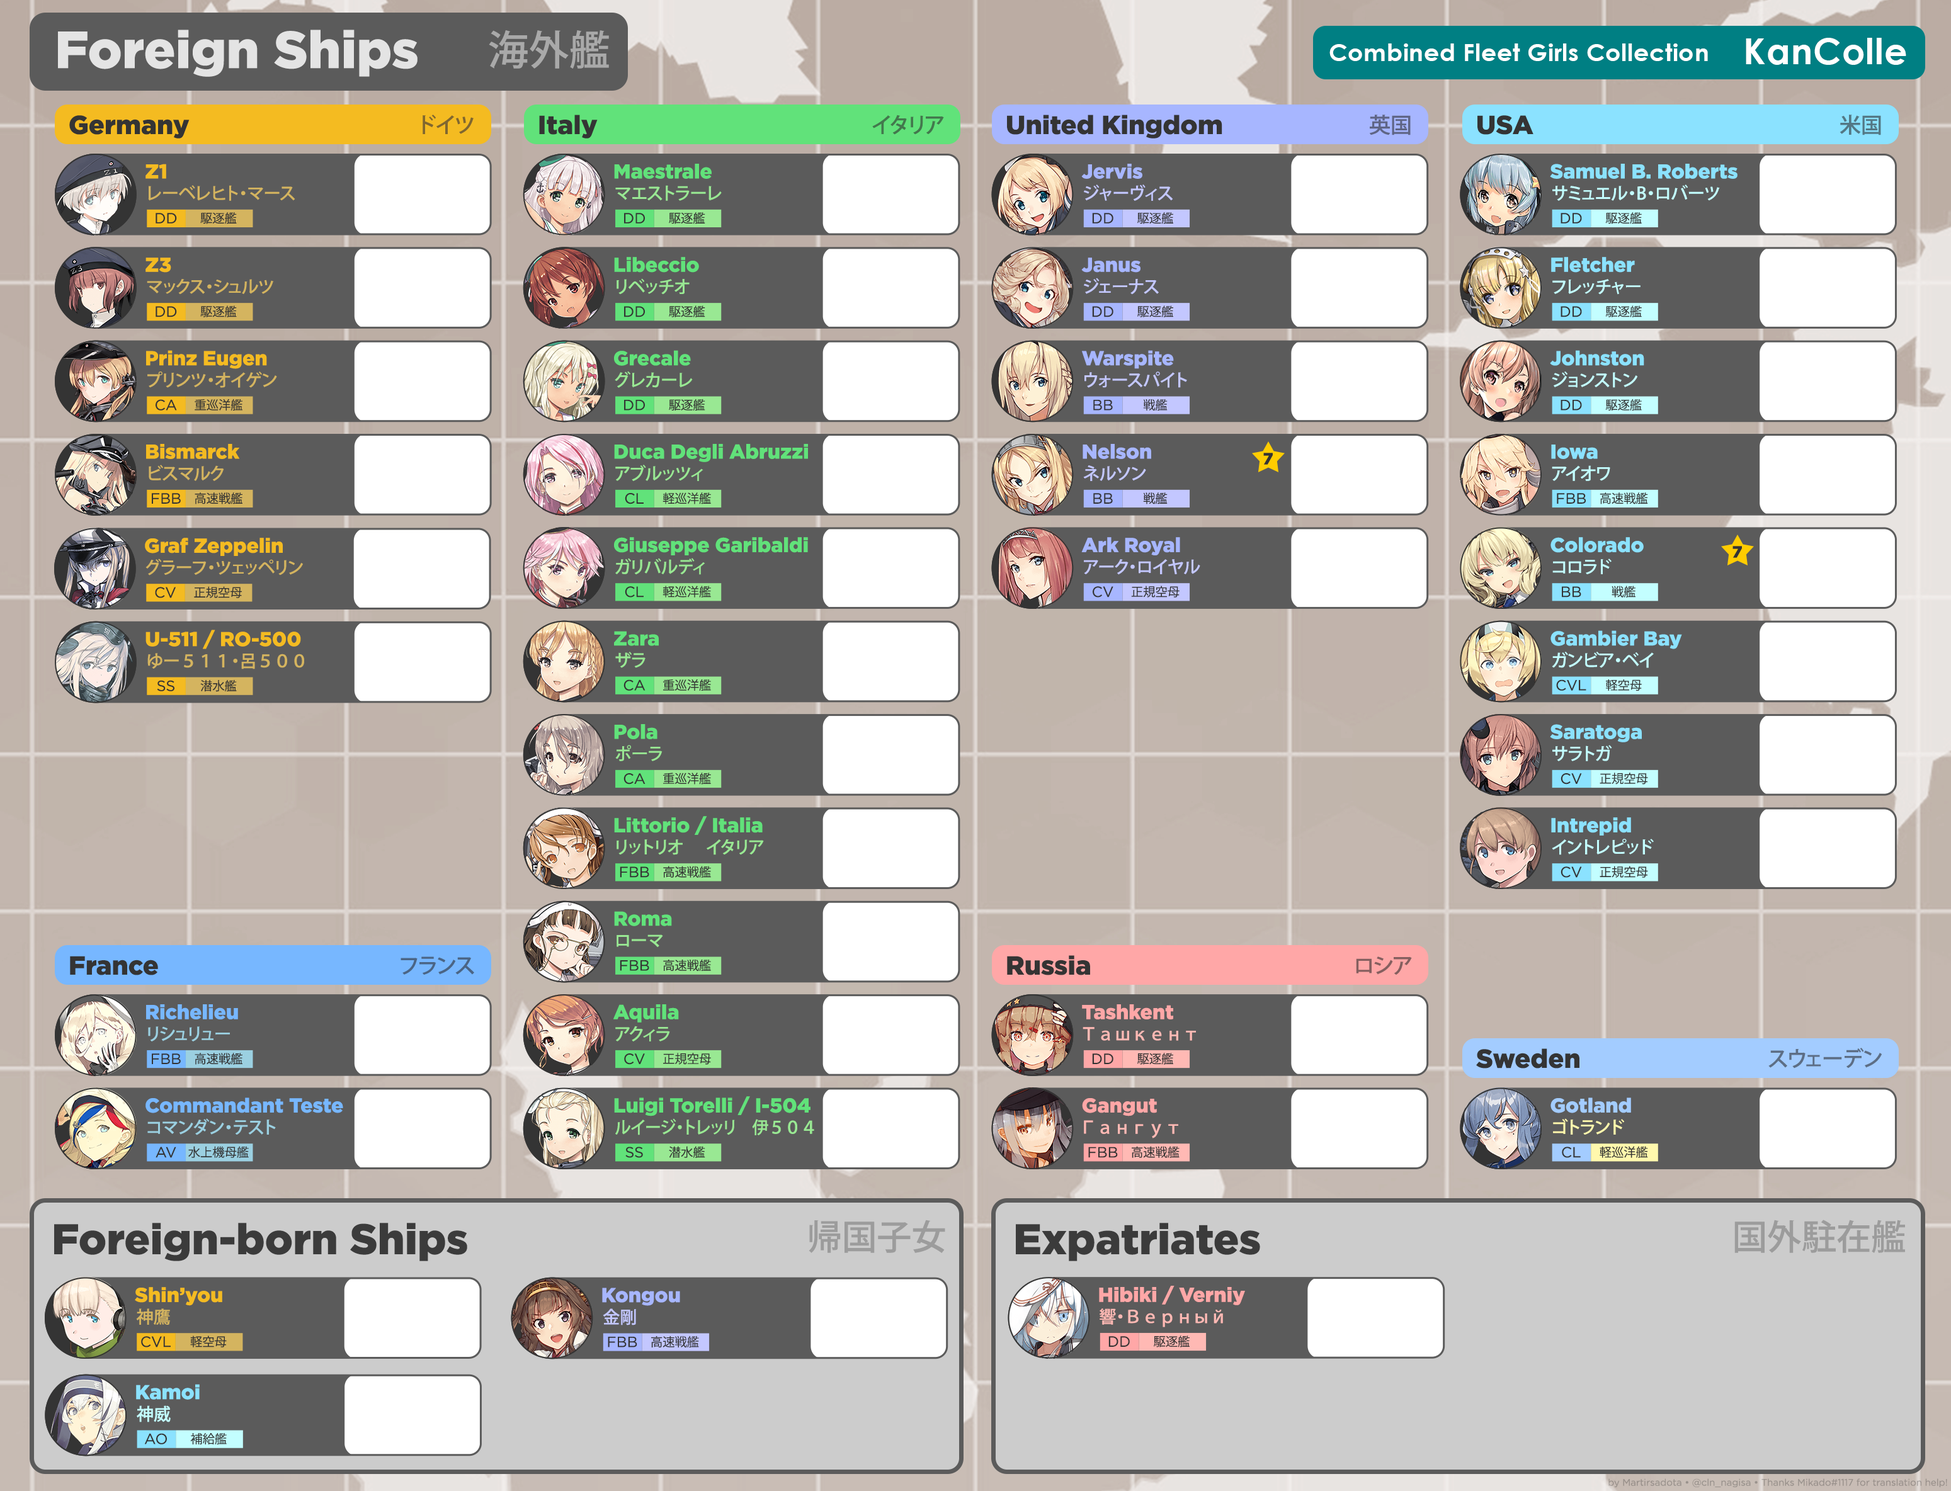
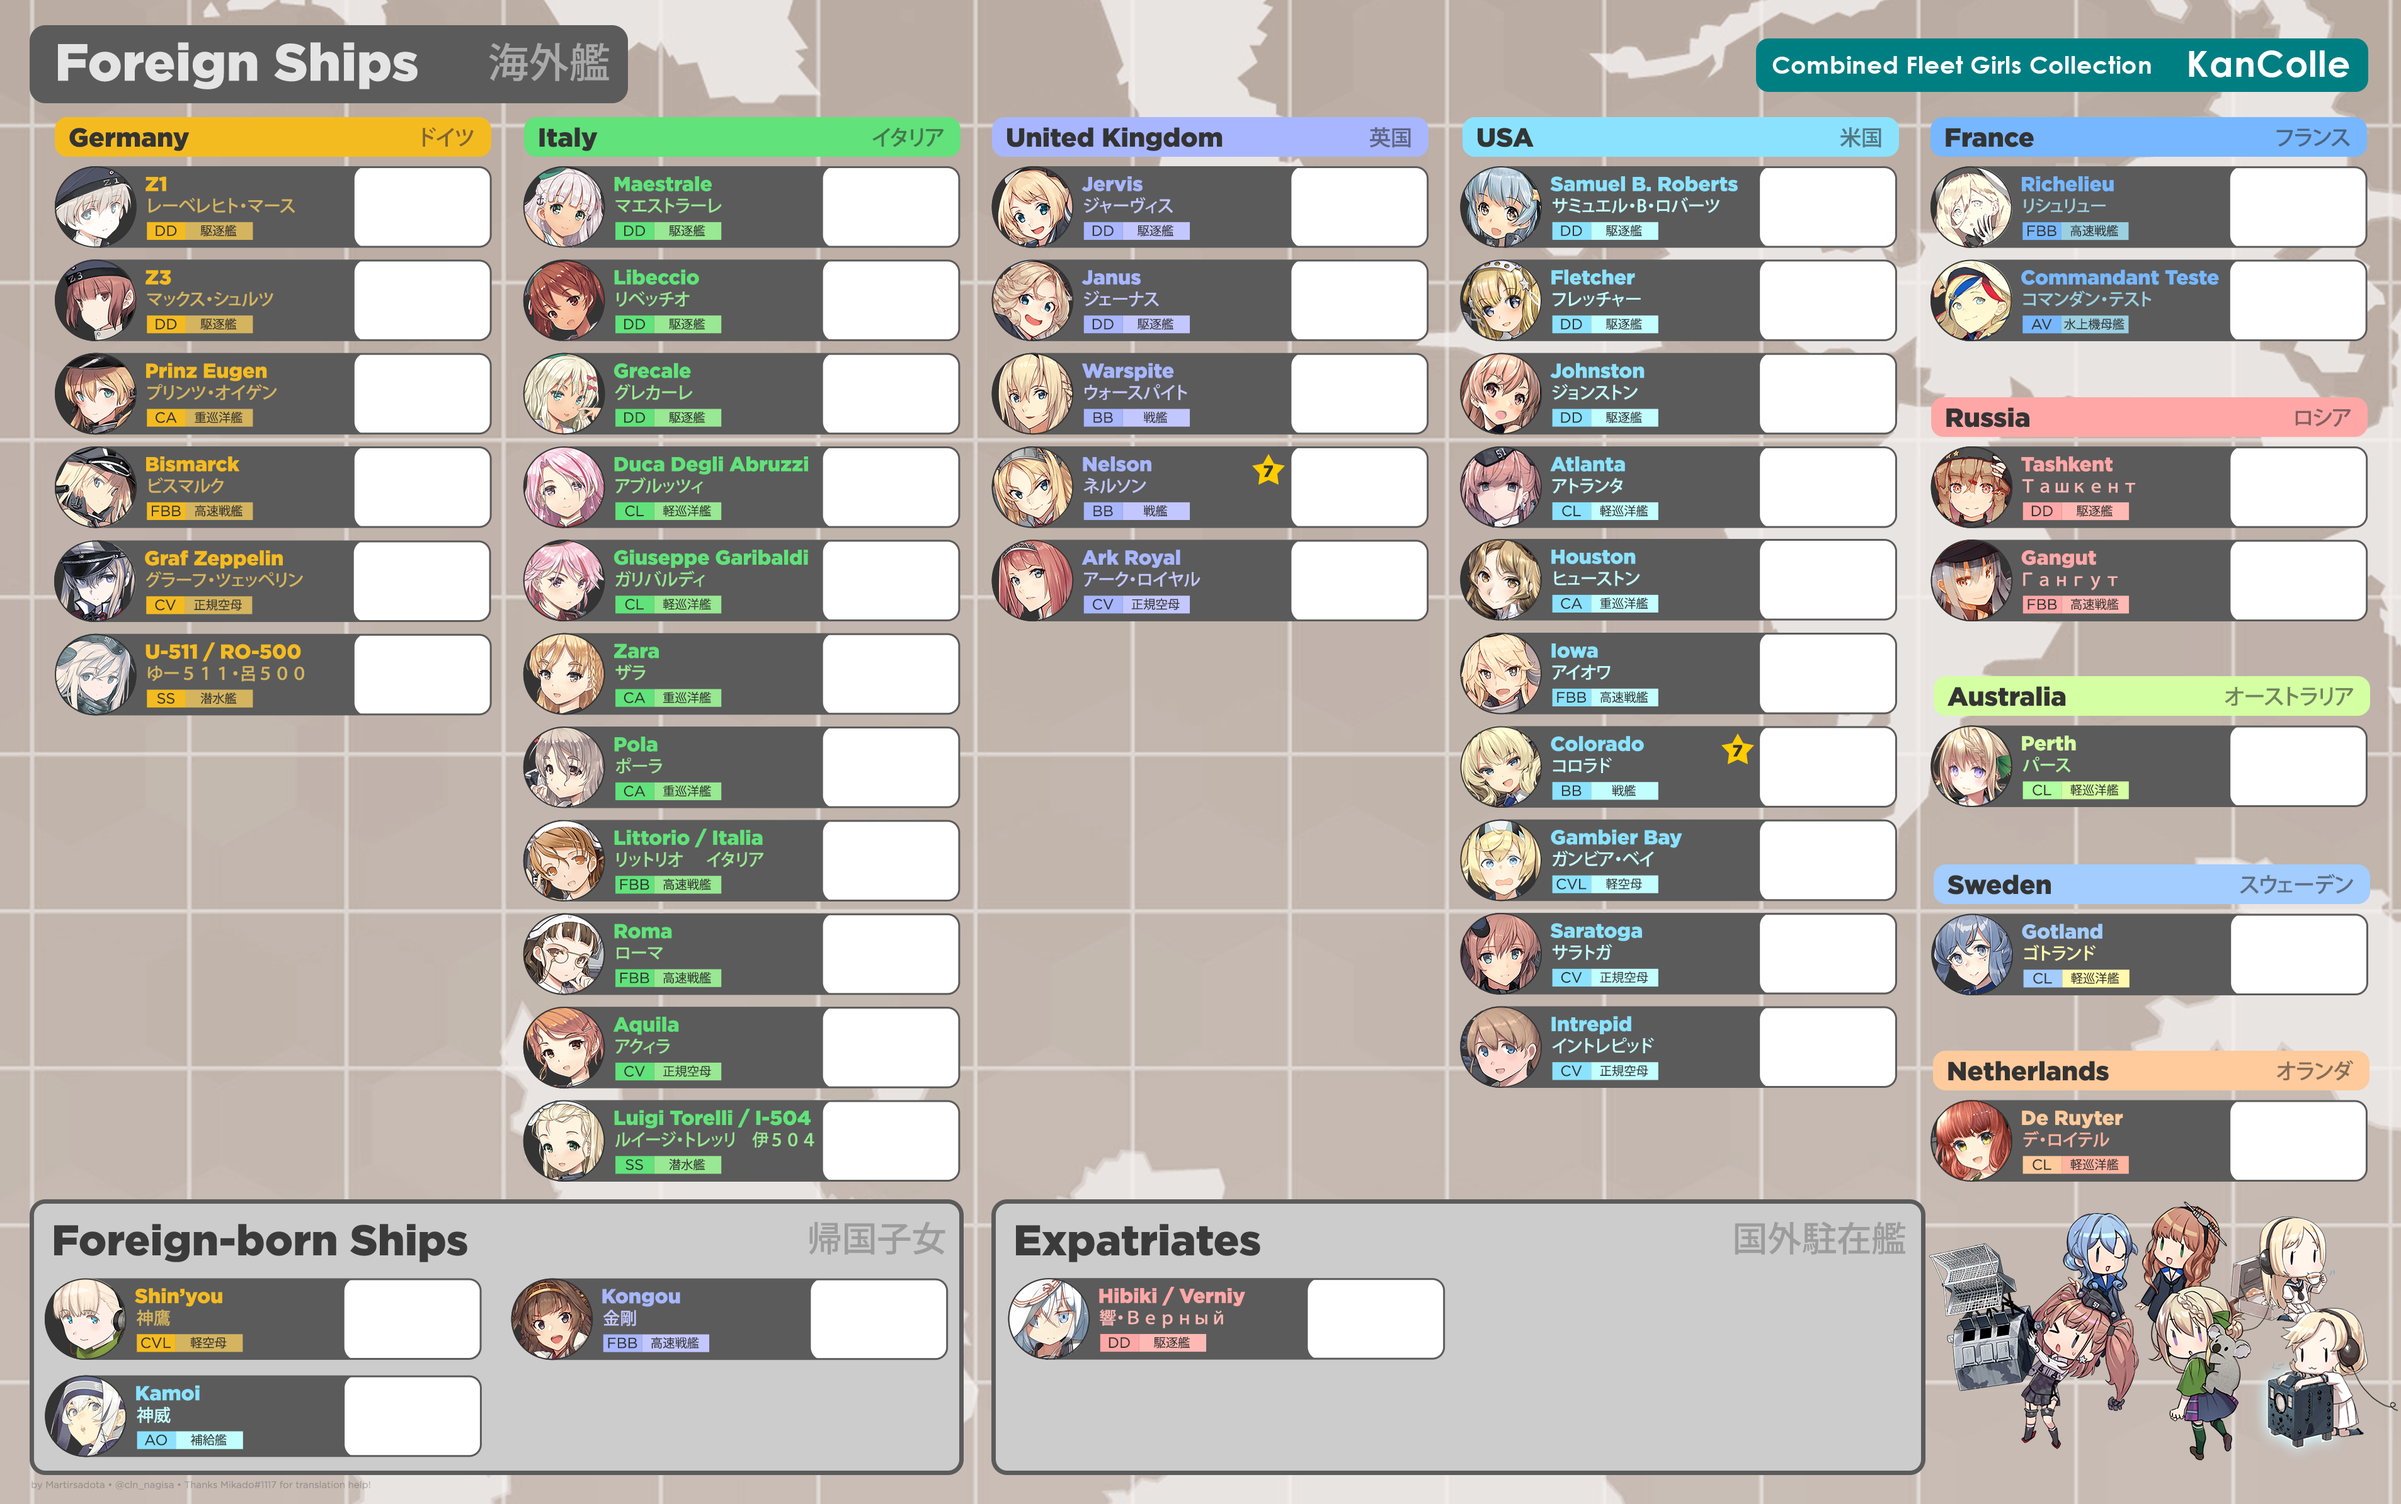
Update foreign ships image

diff --git a/ShowcaseEventList.js b/ShowcaseEventList.js
@@ -395,49 +395,56 @@
             disclaimerHeightOffset: null,
             fontFamily: '"Helvetica Neue", Helvetica, Arial, sans-serif',
             lvlFontSize: 55,
+            maxBoxHeight: 124,
             maxBoxWidth: 215,
             shipPositions: [
-                {"x": 672+744*0, "y": 328+148.5* 0, "id": 174}, // Z1
-                {"x": 672+744*0, "y": 328+148.5* 1, "id": 175}, // Z3
-                {"x": 672+744*0, "y": 328+148.5* 2, "id": 176}, // Prinz Eugen
-                {"x": 672+744*0, "y": 328+148.5* 3, "id": 171}, // Bismarck
-                {"x": 672+744*0, "y": 328+148.5* 4, "id": 432}, // Graf Zeppelin
-                {"x": 672+744*0, "y": 328+148.5* 5, "id": 431}, // U-511
+                {"x": 672+744*0, "y": 347+148.5* 0, "id": 174}, // Z1
+                {"x": 672+744*0, "y": 347+148.5* 1, "id": 175}, // Z3
+                {"x": 672+744*0, "y": 347+148.5* 2, "id": 176}, // Prinz Eugen
+                {"x": 672+744*0, "y": 347+148.5* 3, "id": 171}, // Bismarck
+                {"x": 672+744*0, "y": 347+148.5* 4, "id": 432}, // Graf Zeppelin
+                {"x": 672+744*0, "y": 347+148.5* 5, "id": 431}, // U-511
 
-                {"x": 672+744*1, "y": 328+148.5* 0, "id": 575}, // Maestrale
-                {"x": 672+744*1, "y": 328+148.5* 1, "id": 443}, // Libeccio
-                {"x": 672+744*1, "y": 328+148.5* 2, "id": 614}, // Grecale
-                {"x": 672+744*1, "y": 328+148.5* 3, "id": 589}, // Duca degli Abruzzi
-                {"x": 672+744*1, "y": 328+148.5* 4, "id": 590}, // G. Garibaldi
-                {"x": 672+744*1, "y": 328+148.5* 5, "id": 448}, // Zara
-                {"x": 672+744*1, "y": 328+148.5* 6, "id": 449}, // Pola
-                {"x": 672+744*1, "y": 328+148.5* 7, "id": 441}, // Littorio
-                {"x": 672+744*1, "y": 328+148.5* 8, "id": 442}, // Roma
-                {"x": 672+744*1, "y": 328+148.5* 9, "id": 444}, // Aquila
-                {"x": 672+744*1, "y": 328+148.5*10, "id": 535}, // Luigi Torelli
+                {"x": 672+744*1, "y": 347+148.5* 0, "id": 575}, // Maestrale
+                {"x": 672+744*1, "y": 347+148.5* 1, "id": 443}, // Libeccio
+                {"x": 672+744*1, "y": 347+148.5* 2, "id": 614}, // Grecale
+                {"x": 672+744*1, "y": 347+148.5* 3, "id": 589}, // Duca degli Abruzzi
+                {"x": 672+744*1, "y": 347+148.5* 4, "id": 590}, // G. Garibaldi
+                {"x": 672+744*1, "y": 347+148.5* 5, "id": 448}, // Zara
+                {"x": 672+744*1, "y": 347+148.5* 6, "id": 449}, // Pola
+                {"x": 672+744*1, "y": 347+148.5* 7, "id": 441}, // Littorio
+                {"x": 672+744*1, "y": 347+148.5* 8, "id": 442}, // Roma
+                {"x": 672+744*1, "y": 347+148.5* 9, "id": 444}, // Aquila
+                {"x": 672+744*1, "y": 347+148.5*10, "id": 535}, // Luigi Torelli
 
-                {"x": 672+744*2, "y": 328+148.5* 0, "id": 519}, // Jervis
-                {"x": 672+744*2, "y": 328+148.5* 1, "id": 520}, // Janus
-                {"x": 672+744*2, "y": 328+148.5* 2, "id": 439}, // Warspite
-                {"x": 672+744*2, "y": 328+148.5* 3, "id": 571}, // Nelson
-                {"x": 672+744*2, "y": 328+148.5* 4, "id": 515}, // Ark Royal
+                {"x": 672+744*2, "y": 347+148.5* 0, "id": 519}, // Jervis
+                {"x": 672+744*2, "y": 347+148.5* 1, "id": 520}, // Janus
+                {"x": 672+744*2, "y": 347+148.5* 2, "id": 439}, // Warspite
+                {"x": 672+744*2, "y": 347+148.5* 3, "id": 571}, // Nelson
+                {"x": 672+744*2, "y": 347+148.5* 4, "id": 515}, // Ark Royal
 
-                {"x": 672+744*3, "y": 328+148.5* 0, "id": 561}, // Samuel B. Roberts
-                {"x": 672+744*3, "y": 328+148.5* 1, "id": 596}, // Fletcher
-                {"x": 672+744*3, "y": 328+148.5* 2, "id": 562}, // Johnston
-                {"x": 672+744*3, "y": 328+148.5* 3, "id": 440}, // Iowa
-                {"x": 672+744*3, "y": 328+148.5* 4, "id": 601}, // Colorado
-                {"x": 672+744*3, "y": 328+148.5* 5, "id": 544}, // Gambier Bay
-                {"x": 672+744*3, "y": 328+148.5* 6, "id": 433}, // Saratoga
-                {"x": 672+744*3, "y": 328+148.5* 7, "id": 549}, // Intrepid
+                {"x": 672+744*3, "y": 347+148.5* 0, "id": 561}, // Samuel B. Roberts
+                {"x": 672+744*3, "y": 347+148.5* 1, "id": 596}, // Fletcher
+                {"x": 672+744*3, "y": 347+148.5* 2, "id": 562}, // Johnston
+                {"x": 672+744*3, "y": 347+148.5* 3, "id": 597}, // Atlanta
+                {"x": 672+744*3, "y": 347+148.5* 4, "id": 595}, // Houston
+                {"x": 672+744*3, "y": 347+148.5* 5, "id": 440}, // Iowa
+                {"x": 672+744*3, "y": 347+148.5* 6, "id": 601}, // Colorado
+                {"x": 672+744*3, "y": 347+148.5* 7, "id": 544}, // Gambier Bay
+                {"x": 672+744*3, "y": 347+148.5* 8, "id": 433}, // Saratoga
+                {"x": 672+744*3, "y": 347+148.5* 9, "id": 549}, // Intrepid
 
-                {"x": 672+744*0, "y": 328+148.5* 9, "id": 492}, // Richelieu
-                {"x": 672+744*0, "y": 328+148.5*10, "id": 491}, // Comdt. Teste
+                {"x": 672+744*4, "y": 347+148.5* 0, "id": 492}, // Richelieu
+                {"x": 672+744*4, "y": 347+148.5* 1, "id": 491}, // Comdt. Teste
 
-                {"x": 672+744*2, "y": 328+148.5* 9, "id": 516}, // Tashkent
-                {"x": 672+744*2, "y": 328+148.5*10, "id": 511}, // Gangut
+                {"x": 672+744*4, "y": 347+148.5* 3, "id": 516}, // Tashkent
+                {"x": 672+744*4, "y": 347+148.5* 4, "id": 511}, // Gangut
 
-                {"x": 672+744*3, "y": 328+148.5*10, "id": 574}, // Gotland
+                {"x": 672+744*4, "y": 347+148.5* 6, "id": 613}, // Perth
+
+                {"x": 672+744*4, "y": 347+148.5* 8, "id": 574}, // Gotland
+                
+                {"x": 672+744*4, "y": 347+148.5*10, "id": 604}, // De Ruyter
 
                 {"x": 654+744*0, "y": 2112+154*  0, "id": 534}, // Shinyou
                 {"x": 654+744*0, "y": 2112+154*  1, "id": 162}, // Kamoi
